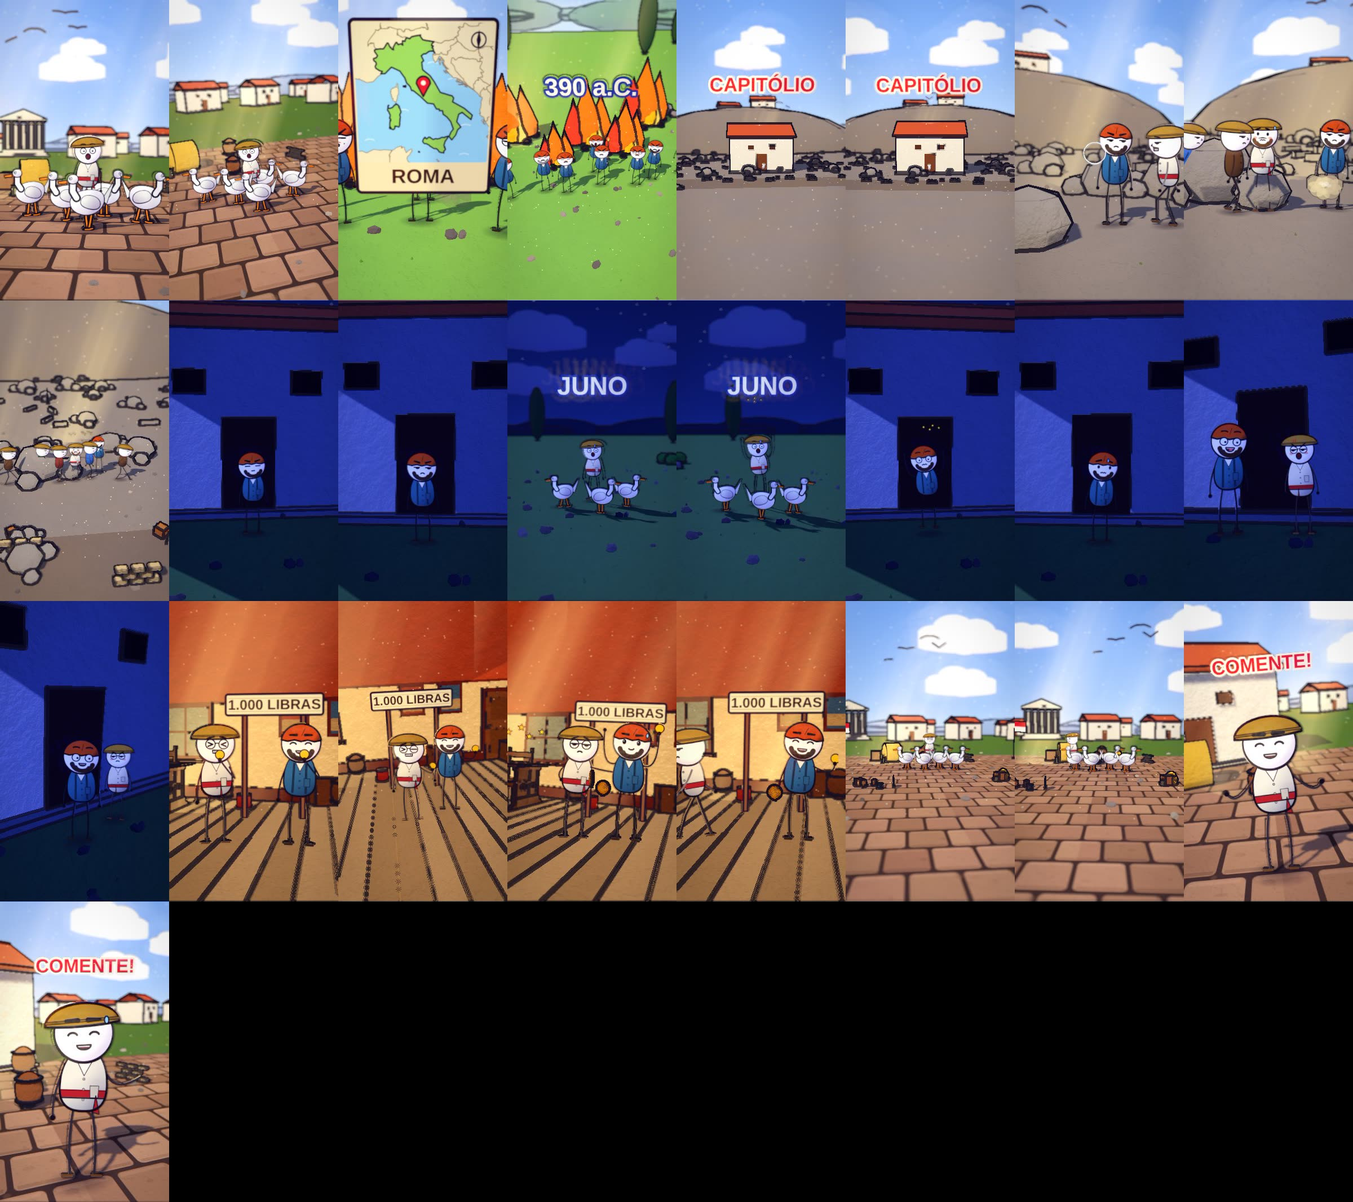
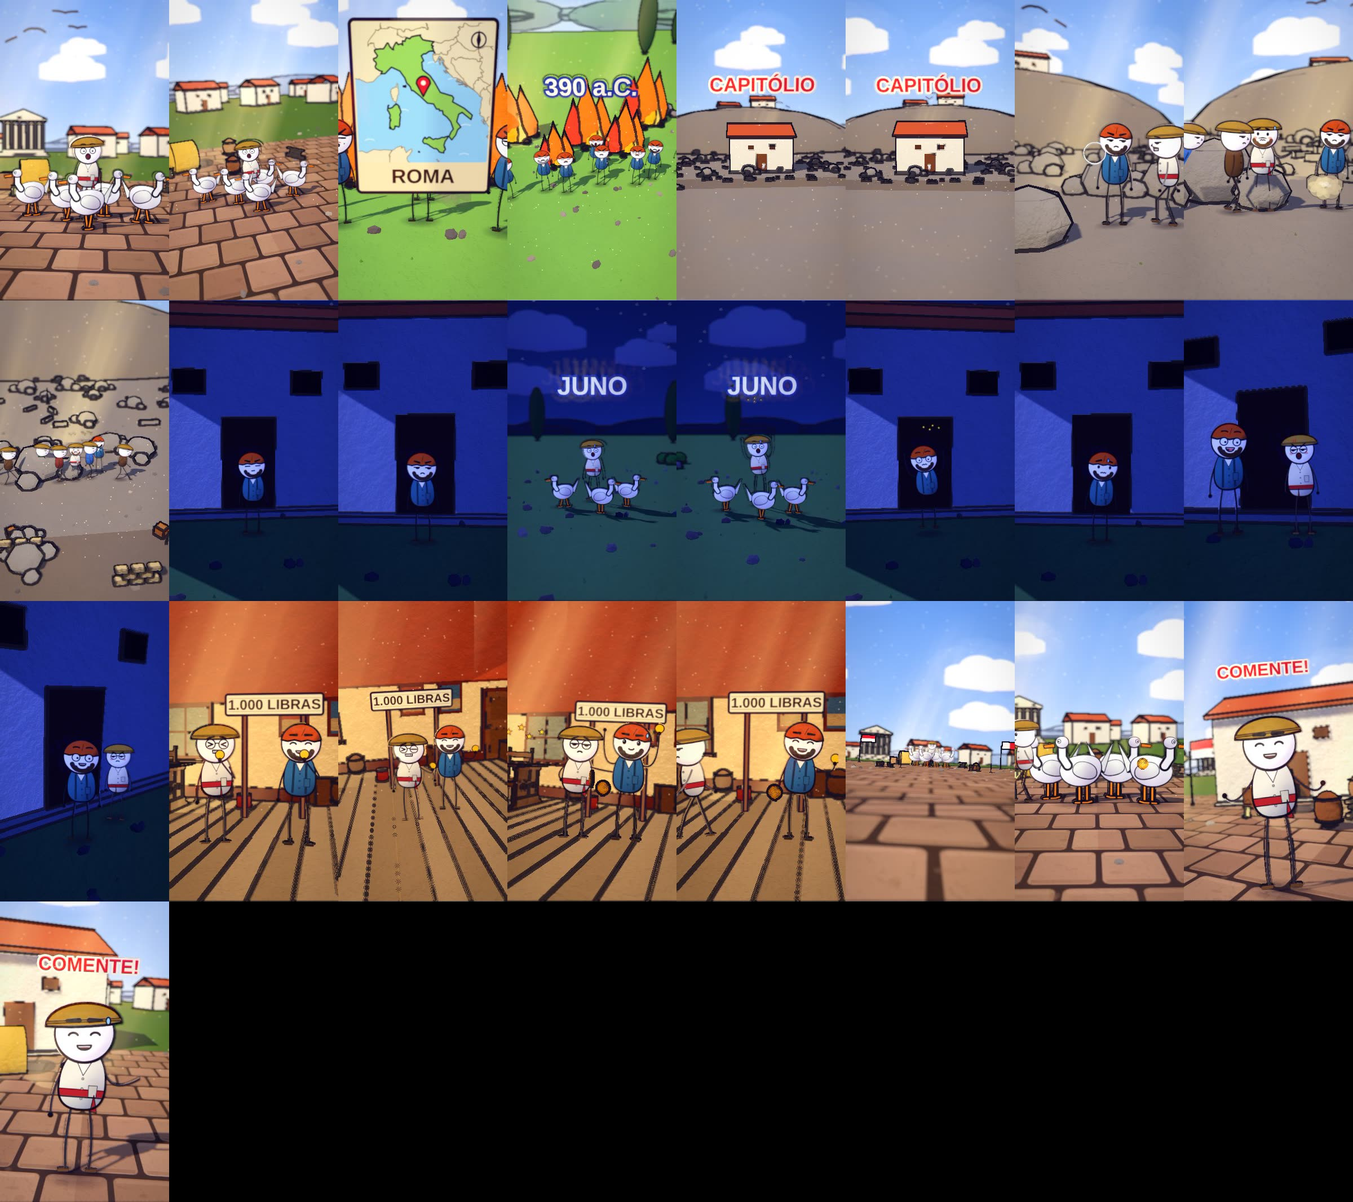
aroostook1838 entregue; gansos390 refacao final (storyboard aprovado); ferramenta sincronizada
Claude-Session: https://claude.ai/code/session_01HE8Dy2XpEMgdYAHCmWZFay

Changed region(s): [[0.625, 0.4953, 1.0, 0.7739], [0.0, 0.743, 0.125, 1.0]]

diff --git a/ferramenta-shorts/stories/gansos390/spec.js b/ferramenta-shorts/stories/gansos390/spec.js
@@ -22,8 +22,8 @@ const SPEC = {
     { ...S('b6', A[6], A[7] - 1, X, "night", { h: 3.0, d0: 12.0, d1: 11.0, el: 5, fov: 46, cx: 0.0, cz: 0.0, hero: { hero: 'none', wide: true }, vary: false, nocut: true, trans: 'dissolve', actors: [_MA(_MA(pp(X, "GAU", 0, 0.0, -0.4, "scared"), { gests: [[WS(88) - 8, WS(88) + 46, 'up']] }), { poses: [[A[6], WS(88), 'sleep']] })], props: [{ asset: "buildings/castle_tower", at: [X + 0.0, -8.0], s: 1.6, fixo: true, drop: false }], fx: [{ k: "dust", a: A[6] + 70, b: A[6] + 96, at: [X + 0.9, DK + 0.12, 1.0], s: 0.75 }, { k: "puff", a: A[6] + 80, b: A[6] + 106, at: [X + 0.9, DK + 0.12, 1.0], s: 0.75 }, { k: "stars", a: WS(88) + 3, b: WS(88) + 30, at: [X + 0.0, DK + 2.6, 1.7], s: 0.6 }] }), nocut: true },
     S('b7', A[7], A[8] - 1, X, "night", { h: 2.2, d0: 11.0, d1: 11.0, az0: -26, az1: -12, cx: 0.0, cz: 0.0, hero: { hero: 'any', frame: 'medium', minH: 0.07, main: 2 }, trans: 'dissolve', actors: [pp(X, "GAU", 0, -1.0, 1.3, "scared", { pose: 'talk', inter: { k: 'nod', a: Math.round(A[7] + (A[8] - 1 - (A[7])) * 0.12), b: Math.round(A[7] + (A[8] - 1 - (A[7])) * 0.82), dir: 1, n: 2, ph: 0 } }), pp(X, "MAN", 0, 1.0, 1.0, "angry", { pose: 'talk', inter: { k: 'lean', a: Math.round(A[7] + (A[8] - 1 - (A[7])) * 0.2), b: Math.round(A[7] + (A[8] - 1 - (A[7])) * 0.9), dir: -1, n: 2, ph: 3.14 } })], props: [{ asset: "buildings/castle_tower", at: [X + 0.0, -6.0], s: 1.6, fixo: true, drop: false }], fx: [{ k: "dust", a: A[7] + 50, b: A[7] + 76, at: [X + 0.9, DK + 0.12, 1.0], s: 0.75 }] }),
     S('b8', A[8], A[9] - 1, X_hall, "study", { h: 2.3, d0: 9.8, d1: 8.8, az0: 6, az1: 12, vary: false, hero: { hero: 'any', frame: 'medium', minH: 0.07, main: 2 }, trans: 'dissolve', actors: [_MA(_MA(pp(X_hall, "ROM", 0, -1.0, 1.3, "sad", { over: { hold: "coin" }, inter: { k: 'step', a: Math.round(A[8] + (A[9] - 1 - (A[8])) * 0.12), b: Math.round(A[8] + (A[9] - 1 - (A[8])) * 0.82), dir: 1, n: 2, ph: 0 } }), { gests: [[WS(121) - 8, Math.max(WS(121) + 14, WS(125) - 5), 'reach'], [WS(125) - 8, Math.max(WS(125) + 14, WS(130) - 5), 'reach']] }), { move: [[X_hall + -10.0, 0.7], WS(130) + 2, WS(130) + 70, 'lin'], walk: 'stroll' }), pp(X_hall, "GAU", 0, 1.0, 1.0, "grin", { over: { hold: "coin" }, inter: { k: 'nod', a: Math.round(A[8] + (A[9] - 1 - (A[8])) * 0.2), b: Math.round(A[8] + (A[9] - 1 - (A[8])) * 0.9), dir: -1, n: 2, ph: 3.14 } })], props: [{ asset: "kit/room_classico_wood", at: [X_hall, 0], s: 1, drop: false }, { asset: "mk/Bookcase_2", at: [X_hall + 7.4, -3.4], s: 2.4, drop: false }, { asset: "mk/Table_Large", at: [X_hall + -6.6, -1.6], s: 2.2, drop: false }, { asset: "mk/Chair_1", at: [X_hall + -4.4, -1.2], s: 2.2, drop: false }, { asset: "mk/Chest_Wood", at: [X_hall + 6.9, 0.6], s: 2.2, drop: false }, { asset: 'kit/coin', a: WS(121) - 2, b: WS(121) + 50, at: [X_hall + 0.25, 1.9], y: (f) => DK + 1.5 + 0.25 * Math.sin(f * 0.2), spinY: 2, s: 0.35, drop: false }, { asset: 'kit/coin', a: Math.max(A[8] + 4, WS(125) - 20), b: A[9] - 1, at: [X_hall + 0.5, 1.8], y: DK + 1.25, s: 0.32, drop: false }], fx: [{ k: 'text', a: A[8], b: A[9] - 1, at: [X_hall + 0.0, DK, -1.3], text: "1.000 LIBRAS", s: 2.625, col: '#3a2416', size: 120, board: true }, { k: "stars", a: WS(121), b: WS(121) + 28, at: [X_hall + -1.0, DK + 0.5, 2.5], s: 1.1 }, { k: "stars", a: WS(125), b: WS(125) + 28, at: [X_hall + -1.0, DK + 0.5, 2.5], s: 1.1 }] }),
-    { ...S('b9', A[9], A[10] - 1, X_medieval, "day", { h: 1.5, d0: 9.5, d1: 9.0, el: 5, fov: 46, cx: 0.0, cz: 1.0, hero: { hero: 'none', wide: true }, vary: false, nocut: true, trans: 'dissolve', actors: [_MA(_MA(pp(X_medieval, "ROM", 0, 0.0, -0.4, "smile", { over: { hold: "coin" } }), { gests: [[WS(133) - 8, Math.max(WS(133) + 14, WS(138) - 5), 'reach'], [WS(138) - 8, Math.max(WS(138) + 14, WS(140) - 5), 'reach']] }), { move: [[X_medieval + -9.0, 0.7], WS(140) + 2, WS(140) + 70, 'lin'], walk: 'stroll' }), { bird: "goose", at: [X_medieval + -2.0, 0.8], state: "stand", s: 1.3, flip: false, seed: 1 }, { bird: "goose", at: [X_medieval + -0.6, 1.4], state: "stand", s: 1.3, flip: false, seed: 4 }, { bird: "goose", at: [X_medieval + 0.9, 0.7], state: "stand", s: 1.3, flip: true, seed: 7 }, { bird: "goose", at: [X_medieval + 2.1, 1.5], state: "stand", s: 1.3, flip: true, seed: 10 }], props: [{ asset: 'kit/coin', a: Math.max(A[9] + 4, WS(138) - 20), b: A[10] - 1, at: [X_medieval + 1.5, 1.8], y: DK + 1.25, s: 0.32, drop: false }], fx: [{ k: 'birds', a: A[9], b: A[10] - 1, at: [X_medieval, DK + 4.5, -30], n: 4, dir: 1, off: 15 }, { k: "stars", a: WS(138), b: WS(138) + 28, at: [X_medieval + 0.0, DK + 0.5, 2.5], s: 1.9 }] }), nocut: true },
-    S('b10', A[10], A[11] - 1, X_medieval, "day", { h: 2.4, d0: 6.4, d1: 5.6, az0: -14, az1: 4, hero: { hero: 'any', frame: 'medium', minH: 0.07, main: 1 }, trans: 'dissolve', actors: [pp(X_medieval, "ROM", 2, 0.0, 1.3, "grin", { pose: 'talk' })], props: [{ asset: "buildings/castle_tower", at: [X_medieval + -4.8, -11.0], s: 1.05, ry: 0.35, drop: false }], fx: [{ k: 'birds', a: A[10], b: A[11] - 1, at: [X_medieval, DK + 6.0, -30], n: 5, dir: -1, off: 8 }, txt(X_medieval, WS(144, -2), A[11] - 1, "COMENTE!", '#d8282f', '#fff6e0', 4.6, { s: 1.5, up: 0.55 })] })
+    S('b9', A[9], A[10] - 1, X_medieval, "day", { h: 1.8, d0: 13.0, d1: 13.0, az0: -14, az1: 4, cx: 0.0, cz: 1.0, vary: false, hero: { hero: 'any', frame: 'medium', minH: 0.07, main: 1 }, trans: 'dissolve', actors: [_MA(_MA(pp(X_medieval, "ROM", 0, 0.0, 1.3, "smile", { over: { hold: "coin" } }), { gests: [[WS(133) - 8, Math.max(WS(133) + 14, WS(138) - 5), 'reach'], [WS(138) - 8, Math.max(WS(138) + 14, WS(140) - 5), 'reach']] }), { move: [[X_medieval + -9.0, 0.7], WS(140) + 2, WS(140) + 70, 'lin'], walk: 'stroll' }), { bird: "goose", at: [X_medieval + -1.8, 0.8], state: "stand", s: 1.6, flip: false, seed: 1 }, { bird: "goose", at: [X_medieval + -0.6, 1.4], state: "stand", s: 1.6, flip: false, seed: 4 }, { bird: "goose", at: [X_medieval + 0.8, 0.7], state: "stand", s: 1.6, flip: true, seed: 7 }, { bird: "goose", at: [X_medieval + 1.9, 1.5], state: "stand", s: 1.6, flip: true, seed: 10 }], props: [{ asset: 'kit/coin', a: Math.max(A[9] + 4, WS(138) - 20), b: A[10] - 1, at: [X_medieval + 1.5, 1.8], y: DK + 1.25, s: 0.32, drop: false }], fx: [{ k: "stars", a: WS(138), b: WS(138) + 28, at: [X_medieval + 0.0, DK + 0.5, 2.5], s: 1.1 }] }),
+    S('b10', A[10], A[11] - 1, X_medieval, "day", { h: 2.4, d0: 6.4, d1: 5.6, az0: 24, az1: 10, hero: { hero: 'any', frame: 'medium', minH: 0.07, main: 1 }, trans: 'dissolve', actors: [pp(X_medieval, "ROM", 2, 0.0, 1.3, "grin", { pose: 'talk' })], props: [{ asset: "buildings/castle_tower", at: [X_medieval + -4.8, -11.0], s: 1.05, ry: 0.35, drop: false }], fx: [{ k: 'birds', a: A[10], b: A[11] - 1, at: [X_medieval, DK + 6.0, -30], n: 5, dir: -1, off: 8 }, txt(X_medieval, WS(144, -2), A[11] - 1, "COMENTE!", '#d8282f', '#fff6e0', 4.6, { s: 1.5, up: 0.55 })] })
   ],
 };
 

diff --git a/ferramenta-shorts/web/story.js b/ferramenta-shorts/web/story.js
@@ -43,8 +43,8 @@ const SPEC = {
     { ...S('b6', A[6], A[7] - 1, X, "night", { h: 3.0, d0: 12.0, d1: 11.0, el: 5, fov: 46, cx: 0.0, cz: 0.0, hero: { hero: 'none', wide: true }, vary: false, nocut: true, trans: 'dissolve', actors: [_MA(_MA(pp(X, "GAU", 0, 0.0, -0.4, "scared"), { gests: [[WS(88) - 8, WS(88) + 46, 'up']] }), { poses: [[A[6], WS(88), 'sleep']] })], props: [{ asset: "buildings/castle_tower", at: [X + 0.0, -8.0], s: 1.6, fixo: true, drop: false }], fx: [{ k: "dust", a: A[6] + 70, b: A[6] + 96, at: [X + 0.9, DK + 0.12, 1.0], s: 0.75 }, { k: "puff", a: A[6] + 80, b: A[6] + 106, at: [X + 0.9, DK + 0.12, 1.0], s: 0.75 }, { k: "stars", a: WS(88) + 3, b: WS(88) + 30, at: [X + 0.0, DK + 2.6, 1.7], s: 0.6 }] }), nocut: true },
     S('b7', A[7], A[8] - 1, X, "night", { h: 2.2, d0: 11.0, d1: 11.0, az0: -26, az1: -12, cx: 0.0, cz: 0.0, hero: { hero: 'any', frame: 'medium', minH: 0.07, main: 2 }, trans: 'dissolve', actors: [pp(X, "GAU", 0, -1.0, 1.3, "scared", { pose: 'talk', inter: { k: 'nod', a: Math.round(A[7] + (A[8] - 1 - (A[7])) * 0.12), b: Math.round(A[7] + (A[8] - 1 - (A[7])) * 0.82), dir: 1, n: 2, ph: 0 } }), pp(X, "MAN", 0, 1.0, 1.0, "angry", { pose: 'talk', inter: { k: 'lean', a: Math.round(A[7] + (A[8] - 1 - (A[7])) * 0.2), b: Math.round(A[7] + (A[8] - 1 - (A[7])) * 0.9), dir: -1, n: 2, ph: 3.14 } })], props: [{ asset: "buildings/castle_tower", at: [X + 0.0, -6.0], s: 1.6, fixo: true, drop: false }], fx: [{ k: "dust", a: A[7] + 50, b: A[7] + 76, at: [X + 0.9, DK + 0.12, 1.0], s: 0.75 }] }),
     S('b8', A[8], A[9] - 1, X_hall, "study", { h: 2.3, d0: 9.8, d1: 8.8, az0: 6, az1: 12, vary: false, hero: { hero: 'any', frame: 'medium', minH: 0.07, main: 2 }, trans: 'dissolve', actors: [_MA(_MA(pp(X_hall, "ROM", 0, -1.0, 1.3, "sad", { over: { hold: "coin" }, inter: { k: 'step', a: Math.round(A[8] + (A[9] - 1 - (A[8])) * 0.12), b: Math.round(A[8] + (A[9] - 1 - (A[8])) * 0.82), dir: 1, n: 2, ph: 0 } }), { gests: [[WS(121) - 8, Math.max(WS(121) + 14, WS(125) - 5), 'reach'], [WS(125) - 8, Math.max(WS(125) + 14, WS(130) - 5), 'reach']] }), { move: [[X_hall + -10.0, 0.7], WS(130) + 2, WS(130) + 70, 'lin'], walk: 'stroll' }), pp(X_hall, "GAU", 0, 1.0, 1.0, "grin", { over: { hold: "coin" }, inter: { k: 'nod', a: Math.round(A[8] + (A[9] - 1 - (A[8])) * 0.2), b: Math.round(A[8] + (A[9] - 1 - (A[8])) * 0.9), dir: -1, n: 2, ph: 3.14 } })], props: [{ asset: "kit/room_classico_wood", at: [X_hall, 0], s: 1, drop: false }, { asset: "mk/Bookcase_2", at: [X_hall + 7.4, -3.4], s: 2.4, drop: false }, { asset: "mk/Table_Large", at: [X_hall + -6.6, -1.6], s: 2.2, drop: false }, { asset: "mk/Chair_1", at: [X_hall + -4.4, -1.2], s: 2.2, drop: false }, { asset: "mk/Chest_Wood", at: [X_hall + 6.9, 0.6], s: 2.2, drop: false }, { asset: 'kit/coin', a: WS(121) - 2, b: WS(121) + 50, at: [X_hall + 0.25, 1.9], y: (f) => DK + 1.5 + 0.25 * Math.sin(f * 0.2), spinY: 2, s: 0.35, drop: false }, { asset: 'kit/coin', a: Math.max(A[8] + 4, WS(125) - 20), b: A[9] - 1, at: [X_hall + 0.5, 1.8], y: DK + 1.25, s: 0.32, drop: false }], fx: [{ k: 'text', a: A[8], b: A[9] - 1, at: [X_hall + 0.0, DK, -1.3], text: "1.000 LIBRAS", s: 2.625, col: '#3a2416', size: 120, board: true }, { k: "stars", a: WS(121), b: WS(121) + 28, at: [X_hall + -1.0, DK + 0.5, 2.5], s: 1.1 }, { k: "stars", a: WS(125), b: WS(125) + 28, at: [X_hall + -1.0, DK + 0.5, 2.5], s: 1.1 }] }),
-    { ...S('b9', A[9], A[10] - 1, X_medieval, "day", { h: 1.5, d0: 9.5, d1: 9.0, el: 5, fov: 46, cx: 0.0, cz: 1.0, hero: { hero: 'none', wide: true }, vary: false, nocut: true, trans: 'dissolve', actors: [_MA(_MA(pp(X_medieval, "ROM", 0, 0.0, -0.4, "smile", { over: { hold: "coin" } }), { gests: [[WS(133) - 8, Math.max(WS(133) + 14, WS(138) - 5), 'reach'], [WS(138) - 8, Math.max(WS(138) + 14, WS(140) - 5), 'reach']] }), { move: [[X_medieval + -9.0, 0.7], WS(140) + 2, WS(140) + 70, 'lin'], walk: 'stroll' }), { bird: "goose", at: [X_medieval + -2.0, 0.8], state: "stand", s: 1.3, flip: false, seed: 1 }, { bird: "goose", at: [X_medieval + -0.6, 1.4], state: "stand", s: 1.3, flip: false, seed: 4 }, { bird: "goose", at: [X_medieval + 0.9, 0.7], state: "stand", s: 1.3, flip: true, seed: 7 }, { bird: "goose", at: [X_medieval + 2.1, 1.5], state: "stand", s: 1.3, flip: true, seed: 10 }], props: [{ asset: 'kit/coin', a: Math.max(A[9] + 4, WS(138) - 20), b: A[10] - 1, at: [X_medieval + 1.5, 1.8], y: DK + 1.25, s: 0.32, drop: false }], fx: [{ k: 'birds', a: A[9], b: A[10] - 1, at: [X_medieval, DK + 4.5, -30], n: 4, dir: 1, off: 15 }, { k: "stars", a: WS(138), b: WS(138) + 28, at: [X_medieval + 0.0, DK + 0.5, 2.5], s: 1.9 }] }), nocut: true },
-    S('b10', A[10], A[11] - 1, X_medieval, "day", { h: 2.4, d0: 6.4, d1: 5.6, az0: -14, az1: 4, hero: { hero: 'any', frame: 'medium', minH: 0.07, main: 1 }, trans: 'dissolve', actors: [pp(X_medieval, "ROM", 2, 0.0, 1.3, "grin", { pose: 'talk' })], props: [{ asset: "buildings/castle_tower", at: [X_medieval + -4.8, -11.0], s: 1.05, ry: 0.35, drop: false }], fx: [{ k: 'birds', a: A[10], b: A[11] - 1, at: [X_medieval, DK + 6.0, -30], n: 5, dir: -1, off: 8 }, txt(X_medieval, WS(144, -2), A[11] - 1, "COMENTE!", '#d8282f', '#fff6e0', 4.6, { s: 1.5, up: 0.55 })] })
+    S('b9', A[9], A[10] - 1, X_medieval, "day", { h: 1.8, d0: 13.0, d1: 13.0, az0: -14, az1: 4, cx: 0.0, cz: 1.0, vary: false, hero: { hero: 'any', frame: 'medium', minH: 0.07, main: 1 }, trans: 'dissolve', actors: [_MA(_MA(pp(X_medieval, "ROM", 0, 0.0, 1.3, "smile", { over: { hold: "coin" } }), { gests: [[WS(133) - 8, Math.max(WS(133) + 14, WS(138) - 5), 'reach'], [WS(138) - 8, Math.max(WS(138) + 14, WS(140) - 5), 'reach']] }), { move: [[X_medieval + -9.0, 0.7], WS(140) + 2, WS(140) + 70, 'lin'], walk: 'stroll' }), { bird: "goose", at: [X_medieval + -1.8, 0.8], state: "stand", s: 1.6, flip: false, seed: 1 }, { bird: "goose", at: [X_medieval + -0.6, 1.4], state: "stand", s: 1.6, flip: false, seed: 4 }, { bird: "goose", at: [X_medieval + 0.8, 0.7], state: "stand", s: 1.6, flip: true, seed: 7 }, { bird: "goose", at: [X_medieval + 1.9, 1.5], state: "stand", s: 1.6, flip: true, seed: 10 }], props: [{ asset: 'kit/coin', a: Math.max(A[9] + 4, WS(138) - 20), b: A[10] - 1, at: [X_medieval + 1.5, 1.8], y: DK + 1.25, s: 0.32, drop: false }], fx: [{ k: "stars", a: WS(138), b: WS(138) + 28, at: [X_medieval + 0.0, DK + 0.5, 2.5], s: 1.1 }] }),
+    S('b10', A[10], A[11] - 1, X_medieval, "day", { h: 2.4, d0: 6.4, d1: 5.6, az0: 24, az1: 10, hero: { hero: 'any', frame: 'medium', minH: 0.07, main: 1 }, trans: 'dissolve', actors: [pp(X_medieval, "ROM", 2, 0.0, 1.3, "grin", { pose: 'talk' })], props: [{ asset: "buildings/castle_tower", at: [X_medieval + -4.8, -11.0], s: 1.05, ry: 0.35, drop: false }], fx: [{ k: 'birds', a: A[10], b: A[11] - 1, at: [X_medieval, DK + 6.0, -30], n: 5, dir: -1, off: 8 }, txt(X_medieval, WS(144, -2), A[11] - 1, "COMENTE!", '#d8282f', '#fff6e0', 4.6, { s: 1.5, up: 0.55 })] })
   ],
 };
 

diff --git a/ferramenta-shorts/stories/gansos390/revisao_storyboard.md b/ferramenta-shorts/stories/gansos390/revisao_storyboard.md
@@ -4,9 +4,9 @@ b0: CORRIGIDO - um bando de gansos barulhentos salvou Roma numa so noite: antes 
 b1: OK - em trezentos e noventa antes de Cristo os gauleses de Breno tomaram Roma e queimaram quase tudo: mapa de Roma e gauleses azuis de cabelo ruivo diante de chamas, com o texto 390 a.C.
 b2: OK - os romanos que sobraram se trancaram no Capitolio, uma colina fortificada: tres romanos de elmo diante da casa de pedra e do texto CAPITOLIO, com pedras da colina.
 b3: OK - os gauleses cercaram a colina e a fome apertou os dois lados: romano e gaules ruivo de azul lado a lado na colina de pedras, com fardos de palha.
-b4: CORRIGIDO - numa noite sem lua eles tentaram escalar em silencio e os guardas nao ouviram nada: antes um gaules parado no campo -> agora gauleses azuis de noite diante da muralha com um guarda romano ao lado, plano aberto, ninguem cortado.
+b4: CORRIGIDO - numa noite sem lua eles chegaram em silencio ao pe da muralha e os guardas nao ouviram nada: texto ajustado ao que se ve -> gaules azul chegando ao pe da muralha escura de noite, ninguem cortado.
 b5: CORRIGIDO - acontece que os gansos sagrados da deusa Juno ouviram e comecaram a gritar: os gansos saiam cortados da tela -> agora tres gansos juntos diante do romano assustado e o texto JUNO, de noite.
-b6: CORRIGIDO - o barulho acordou o soldado Marco Manlio que foi ate a muralha e impediu a subida dos gauleses: antes Manlio sozinho -> agora muralha ao fundo posicionada pelo enquadramento, Manlio de elmo e gaules ruivo juntos empurrando e tombando, de noite.
-b7: OK - a subida fracassou mas os gauleses mantiveram o cerco: dez romanos de tunica clara de pe, serios, de noite.
+b6: CORRIGIDO - o barulho acordou o soldado Marco Manlio que foi ate a muralha e impediu a subida dos gauleses: camera aproximada (12 m) com Manlio e o gaules diante da muralha de noite, ninguem cortado.
+b7: CORRIGIDO - os gauleses se afastaram mas mantiveram o cerco: texto sem acao de fuga -> plano medio com o gaules tombando diante de Manlio, muralha atras, de noite.
 b8: OK - no fim depois de sete meses com fome Roma pagou mil libras de ouro e os gauleses foram embora: romano de tunica clara e gaules ruivo com moeda diante da placa 1.000 LIBRAS.
-b9: CORRIGIDO - os gansos salvaram a colina mas o ouro foi embora do mesmo jeito: o ganso aparecia cortado e depois ficou minusculo em plano aberto -> agora plano medio com o romano de tunica clara e um ganso pequeno na praca de Roma.
+b9: CORRIGIDO - os gansos salvaram a colina mas o ouro foi embora do mesmo jeito: antes um ganso minusculo -> agora quatro gansos grandes no centro com o templo e as casas de Roma ao fundo, ninguem cortado.

diff --git a/ferramenta-shorts/stories/gansos390/plano.md b/ferramenta-shorts/stories/gansos390/plano.md
@@ -11,8 +11,8 @@ b5 | wide | noite  | animais, placa: JUNO | encena: grita (up) @12 (acao + som d
 b6 | wide | noite  | tropa | encena: x_acorda (up) @2 (acao + som de efeito) | -
 b7 | two | noite  | - | - | -
 b8 | two | dia  | interior, placa: 1.000 LIBRAS, objeto na mao | pagou (stars + som de sino); ouro (stars + som de sino); encena: negocio (reach) @9 (acao + som de efeito); encena: paga (reach) @13 (acao + som de efeito); encena: sai @18 (acao + som de efeito) | -
-b9 | wide | dia  | animais | ouro (stars + som de sino); encena: x_entrega (reach) @2 (acao + som de efeito); encena: paga (reach) @7 (acao + som de efeito); encena: sai @9 (acao + som de efeito) | -
+b9 | group | dia  | animais | ouro (stars + som de sino); encena: x_entrega (reach) @2 (acao + som de efeito); encena: paga (reach) @7 (acao + som de efeito); encena: sai @9 (acao + som de efeito) | -
 b10 | close | dia  | placa: COMENTE! | - | -
 
-Mistura de planos: close 10% | medio 31% | aberto 59% | detalhe 0%  (canal: close 10% | medio+corpo 67% | aberto 19% | detalhe 5-15%)
-Planos abertos: 7 | AVISOS: aberto demais (personagem pequeno por muito tempo); sem detalhe de objeto (ponha um objeto em "props" ou um "text" numa cena de 11+ palavras)
+Mistura de planos: close 10% | medio 40% | aberto 50% | detalhe 0%  (canal: close 10% | medio+corpo 67% | aberto 19% | detalhe 5-15%)
+Planos abertos: 6 | AVISOS: aberto demais (personagem pequeno por muito tempo); sem detalhe de objeto (ponha um objeto em "props" ou um "text" numa cena de 11+ palavras)

diff --git a/ferramenta-shorts/stories/gansos390/cronograma.md b/ferramenta-shorts/stories/gansos390/cronograma.md
@@ -1,6 +1,6 @@
 # CRONOGRAMA - Guerras Inusitadas EP 05 - Os Gansos que Salvaram Roma
 
-Gerado em 24/11 17:17 | 11 cenas | metricas: acoes_encenadas 100%, acoes_chave_com_efeito 100%, explicacoes_cobertas 100%, cenario_e_epoca_ok 100%
+Gerado em 24/11 17:21 | 11 cenas | metricas: acoes_encenadas 100%, acoes_chave_com_efeito 100%, explicacoes_cobertas 100%, cenario_e_epoca_ok 100%
 
 ## 1. Plano de cenas (o que cada frase vai mostrar)
 
@@ -15,7 +15,7 @@ b5 | simples | loc_campo | wide | ROM | - | - | - | Acontece que os gansos sagra
 b6 | simples | loc_campo | wide | GAU | - | castle_tower | - | O barulho acordou o soldado Marco Mânlio, que foi até a muralha e impe
 b7 | simples | loc_campo | two | GAU, MAN | - | castle_tower | - | Os gauleses se afastaram, mas mantiveram o cerco.
 b8 | simples | interior madeira | two | ROM, GAU | - | - | - | No fim, depois de sete meses com fome, Roma pagou mil libras de ouro, 
-b9 | simples | medieval | wide | ROM | - | - | - | Os gansos salvaram a colina, mas o ouro foi embora do mesmo jeito.
+b9 | simples | medieval | group | ROM | - | - | - | Os gansos salvaram a colina, mas o ouro foi embora do mesmo jeito.
 b10 | simples | medieval | close | ROM | - | - | - | Agora não deixe de comentar: qual deve ser o tema do próximo vídeo?
 
 ## 2. Etapas (em ordem; nenhuma comeca com a anterior pendente)

diff --git a/ferramenta-shorts/stories/gansos390/autocorrecoes.md b/ferramenta-shorts/stories/gansos390/autocorrecoes.md
@@ -47,3 +47,18 @@
 ## 24/11 17:16 autocorrecao de visibilidade
 - b7: ja corrigida 3 vezes, personagem CORTADO na borda do quadro (boneco grande saindo da tela) -> fica para o olho
 - b9: ja corrigida 3 vezes, personagem CORTADO na borda do quadro (boneco grande saindo da tela) -> fica para o olho
+
+## 24/11 17:18 autocorrecao de visibilidade
+- b9: ja corrigida 3 vezes, personagem CORTADO na borda do quadro (boneco grande saindo da tela) -> fica para o olho
+
+## 24/11 17:19 autocorrecao de visibilidade
+- b9: ja corrigida 3 vezes, personagem CORTADO na borda do quadro (boneco grande saindo da tela) -> fica para o olho
+
+## 24/11 17:19 autocorrecao de visibilidade
+- b9: ja corrigida 3 vezes, personagem CORTADO na borda do quadro (boneco grande saindo da tela) -> fica para o olho
+
+## 24/11 17:20 autocorrecao de visibilidade
+- b9: ja corrigida 3 vezes, personagem CORTADO na borda do quadro (boneco grande saindo da tela) -> fica para o olho
+
+## 24/11 17:20 autocorrecao de visibilidade
+- b9: ja corrigida 3 vezes, personagem CORTADO na borda do quadro (boneco grande saindo da tela) -> fica para o olho

diff --git a/ferramenta-shorts/stories/gansos390/folha2_producao.md b/ferramenta-shorts/stories/gansos390/folha2_producao.md
@@ -94,8 +94,8 @@ Coordenadas de cada cena para modelagem, animacao e camera, com os RISCOS que o 
 
 ## Cena b9 - Os gansos salvaram a colina, mas o ouro foi embora do mesmo jeito.
 - Cenario: medieval | luz: dia | clima: limpo
-- Camera: wide = ABERTO fixo
-- Takes: 1 tomada continua, sem corte (camera abre/gira devagar)
+- Camera: group = plano de grupo (corpo inteiro); angulo muda a cada ~2 s
+- Takes: 2 take(s) de ~1,8 s, deslizando de um para o outro: leve direita, perto -> esquerda alta, aberto
 - Personagens principais (1): ROM (variante 0, expressao smile)
 - Animacao: encena
 - Objetos/modelos: goose
@@ -123,7 +123,7 @@ buildings/castle_tower | b2, b4, b6, b7 | pronto | conferir na folha de contato 
 
 
 ## Video inteiro
-- Objeto heroi: - | grandes momentos: b3 | planos abertos: 7 | mistura: close 10% | medio 31% | aberto 59% | detalhe 0%
+- Objeto heroi: - | grandes momentos: b3 | planos abertos: 6 | mistura: close 10% | medio 40% | aberto 50% | detalhe 0%
 - Interacoes: b7 o outro se aproxima, b8 entregar
 - RISCOS GERAIS: nenhum
 

diff --git a/ferramenta-shorts/stories/gansos390/preproducao.md b/ferramenta-shorts/stories/gansos390/preproducao.md
@@ -13,7 +13,7 @@ b5 | loc_campo | wide | 1 | reagir | goose | - | -
 b6 | loc_campo | wide | 1 | tomba | buildings/castle_tower | - | -
 b7 | loc_campo | two | 2 | tomba, INTERAGEM: o outro se aproxima | buildings/castle_tower | - | -
 b8 | interior madeira | two | 2 | encena, INTERAGEM: entregar | - | coin, coin | -
-b9 | medieval | wide | 1 | encena | goose | - | -
+b9 | medieval | group | 1 | encena | goose | - | -
 b10 | medieval | close | 1 | conversar | - | - | -
 
 OBJETO HEROI: nenhum achado (ponha 'heroi': 'kit/...' no topo do roteiro)

diff --git a/ferramenta-shorts/stories/gansos390/folha2_enquadramento.md b/ferramenta-shorts/stories/gansos390/folha2_enquadramento.md
@@ -80,7 +80,7 @@ Cada cena: LOCAL, CAMERA, PERSONAGENS, OBJETOS (lugar, tamanho real e na tela, e
 
 ## b9: "Os gansos salvaram a colina, mas o ouro foi embora do mesmo jeito."
 - LOCAL: vila medieval; hora: dia
-- CAMERA: plano aberto (cenario inteiro)
+- CAMERA: plano de grupo (3+ pessoas)
 - PERSONAGENS: ROM no centro, expressao smile; sem multidao; acao: fala/gesto
 - OBJETOS: so cenario (nenhum objeto da historia nesta cena)
 

diff --git a/ferramenta-shorts/stories/gansos390/folha3_acao.md b/ferramenta-shorts/stories/gansos390/folha3_acao.md
@@ -86,7 +86,7 @@ Catalogo de TODAS as acoes do roteiro, frase por frase, com o instante (segundos
 | 6 | - | INTERACAO | entregar | OK |
 | 7 | - | PLACA | 1.000 LIBRAS | OK |
 
-## Cena b9 - 46.1s a 49.3s - 13 palavras - plano wide
+## Cena b9 - 46.1s a 49.3s - 13 palavras - plano group
 > "Os gansos salvaram a colina, mas o ouro foi embora do mesmo jeito."
 
 | # | palavra (instante) | acao catalogada | animacao executada | ok? |
